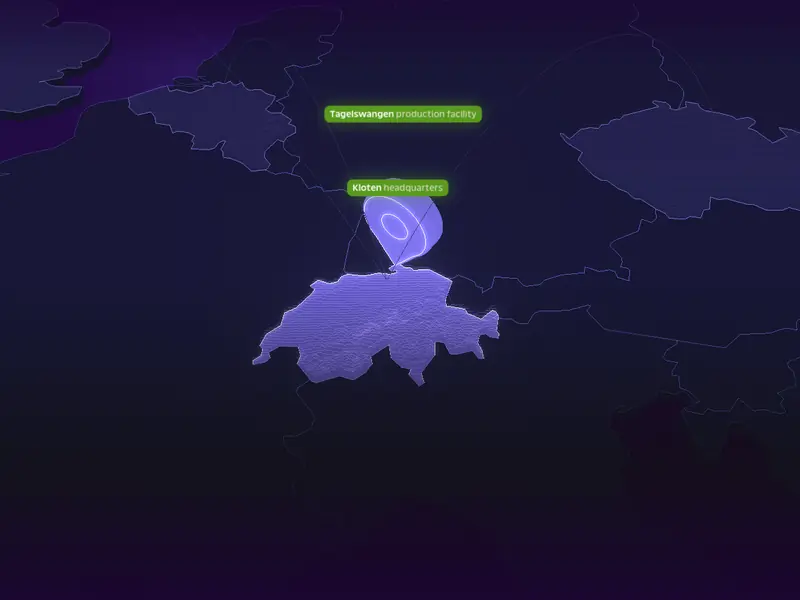
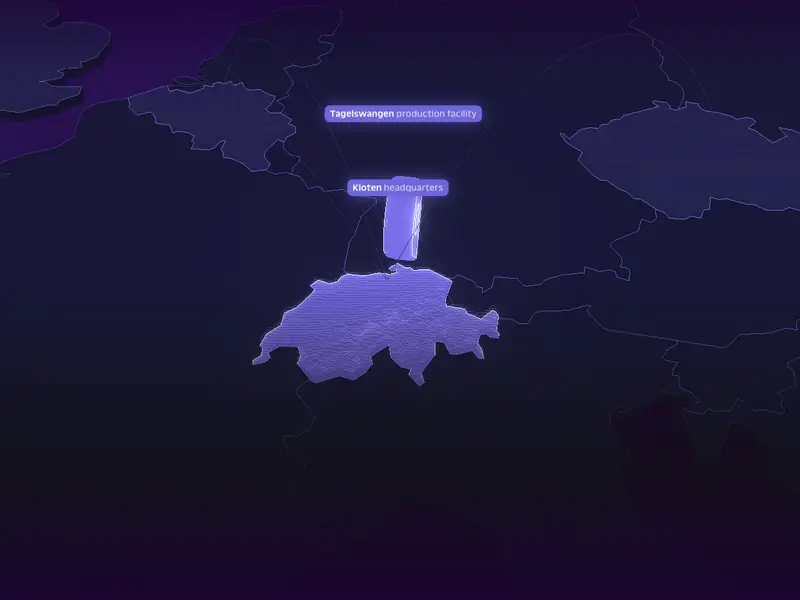
Return the label plates to violet

Changed region(s): [[0.4062, 0.27, 0.5625, 0.45], [0.4062, 0.15, 0.625, 0.21]]

diff --git a/index.html b/index.html
@@ -261,7 +261,7 @@ html{scroll-padding-top:96px}
 .jr-steps li{position:absolute;left:0;top:0;padding:8px 16px;border-radius:8px;font-size:var(--t-s);color:var(--fg);white-space:nowrap;background:rgba(18,16,21,.62);box-shadow:inset 0 0 0 1px rgba(159,232,210,.32);opacity:0;transition:opacity .5s ease;will-change:transform,opacity}
 .jr-steps li.on{opacity:1}
 .jr-steps li.cur{box-shadow:inset 0 0 0 1px #9fe8d2,0 0 24px -6px rgba(159,232,210,.55)}
-#glass-gl,.logo-box,.logo-intro{display:none!important}.mimg{display:none}.no3d .mimg{display:block;width:100%;height:auto;aspect-ratio:4/3;object-fit:cover;border-radius:12px;margin:0 0 20px;opacity:1!important;filter:none!important;transform:none!important}.no3d .hist-intro{padding-top:104px!important}.hist-list li[hidden]{display:none!important}.gl3d .hist-intro{bottom:3.5vh!important}.nav.instory,.nav.away{transform:none!important;opacity:1!important;pointer-events:auto!important}.hist-rail{display:none!important}:root{--plate:#5a9a1f}.kick::before{background:var(--plate)!important}.hlbl.hq,.hlbl.gtag.hq{background:var(--plate)!important;box-shadow:0 0 24px rgba(90,154,31,.55)!important}.hlbl.hq span,.hlbl.gtag.hq span{color:rgba(255,255,255,.82)}.hist-intro [data-a]{transition:opacity .38s ease,filter .38s ease!important}.hist-intro .sw{opacity:0!important;filter:blur(10px)!important}.hist-stage.ia .hist-intro .ifacts{opacity:0!important;filter:blur(10px)!important;transform:translateY(8px)!important;max-height:0!important;margin-top:0!important;margin-bottom:0!important;overflow:hidden}.hist-intro .ifacts{max-height:200px}.hist-intro .ifacts{transition:opacity .6s ease .2s,filter .6s ease .2s,transform .6s ease .2s!important}.hist-intro h1{font-size:clamp(36px,4vw,56px);line-height:1}
+#glass-gl,.logo-box,.logo-intro{display:none!important}.mimg{display:none}.no3d .mimg{display:block;width:100%;height:auto;aspect-ratio:4/3;object-fit:cover;border-radius:12px;margin:0 0 20px;opacity:1!important;filter:none!important;transform:none!important}.no3d .hist-intro{padding-top:104px!important}.hist-list li[hidden]{display:none!important}.gl3d .hist-intro{bottom:3.5vh!important}.nav.instory,.nav.away{transform:none!important;opacity:1!important;pointer-events:auto!important}.hist-rail{display:none!important}.hist-intro [data-a]{transition:opacity .38s ease,filter .38s ease!important}.hist-intro .sw{opacity:0!important;filter:blur(10px)!important}.hist-stage.ia .hist-intro .ifacts{opacity:0!important;filter:blur(10px)!important;transform:translateY(8px)!important;max-height:0!important;margin-top:0!important;margin-bottom:0!important;overflow:hidden}.hist-intro .ifacts{max-height:200px}.hist-intro .ifacts{transition:opacity .6s ease .2s,filter .6s ease .2s,transform .6s ease .2s!important}.hist-intro h1{font-size:clamp(36px,4vw,56px);line-height:1}
 .pcall{position:absolute;inset:0;z-index:3;pointer-events:none;opacity:0}.pcall svg{position:absolute;inset:0;width:100%;height:100%;overflow:visible}.pc-t{position:absolute;left:0;top:0;display:flex;flex-direction:column;gap:4px;white-space:nowrap}.pc-t b{font:500 26px/1.1 Fraise,sans-serif;color:#f3eeeb}.pc-t span{font:400 15px/1.35 Fraise,sans-serif;color:rgba(243,238,235,.55);white-space:normal;max-width:300px}.no3d .pcall{display:none}
 .partners3d{position:absolute;z-index:3;left:50%;top:34%;width:640px;height:116px;margin:-58px 0 0 -320px;perspective:1300px;opacity:0;pointer-events:none;transition:opacity .6s ease}
 .partners3d.on{opacity:1;pointer-events:auto}
